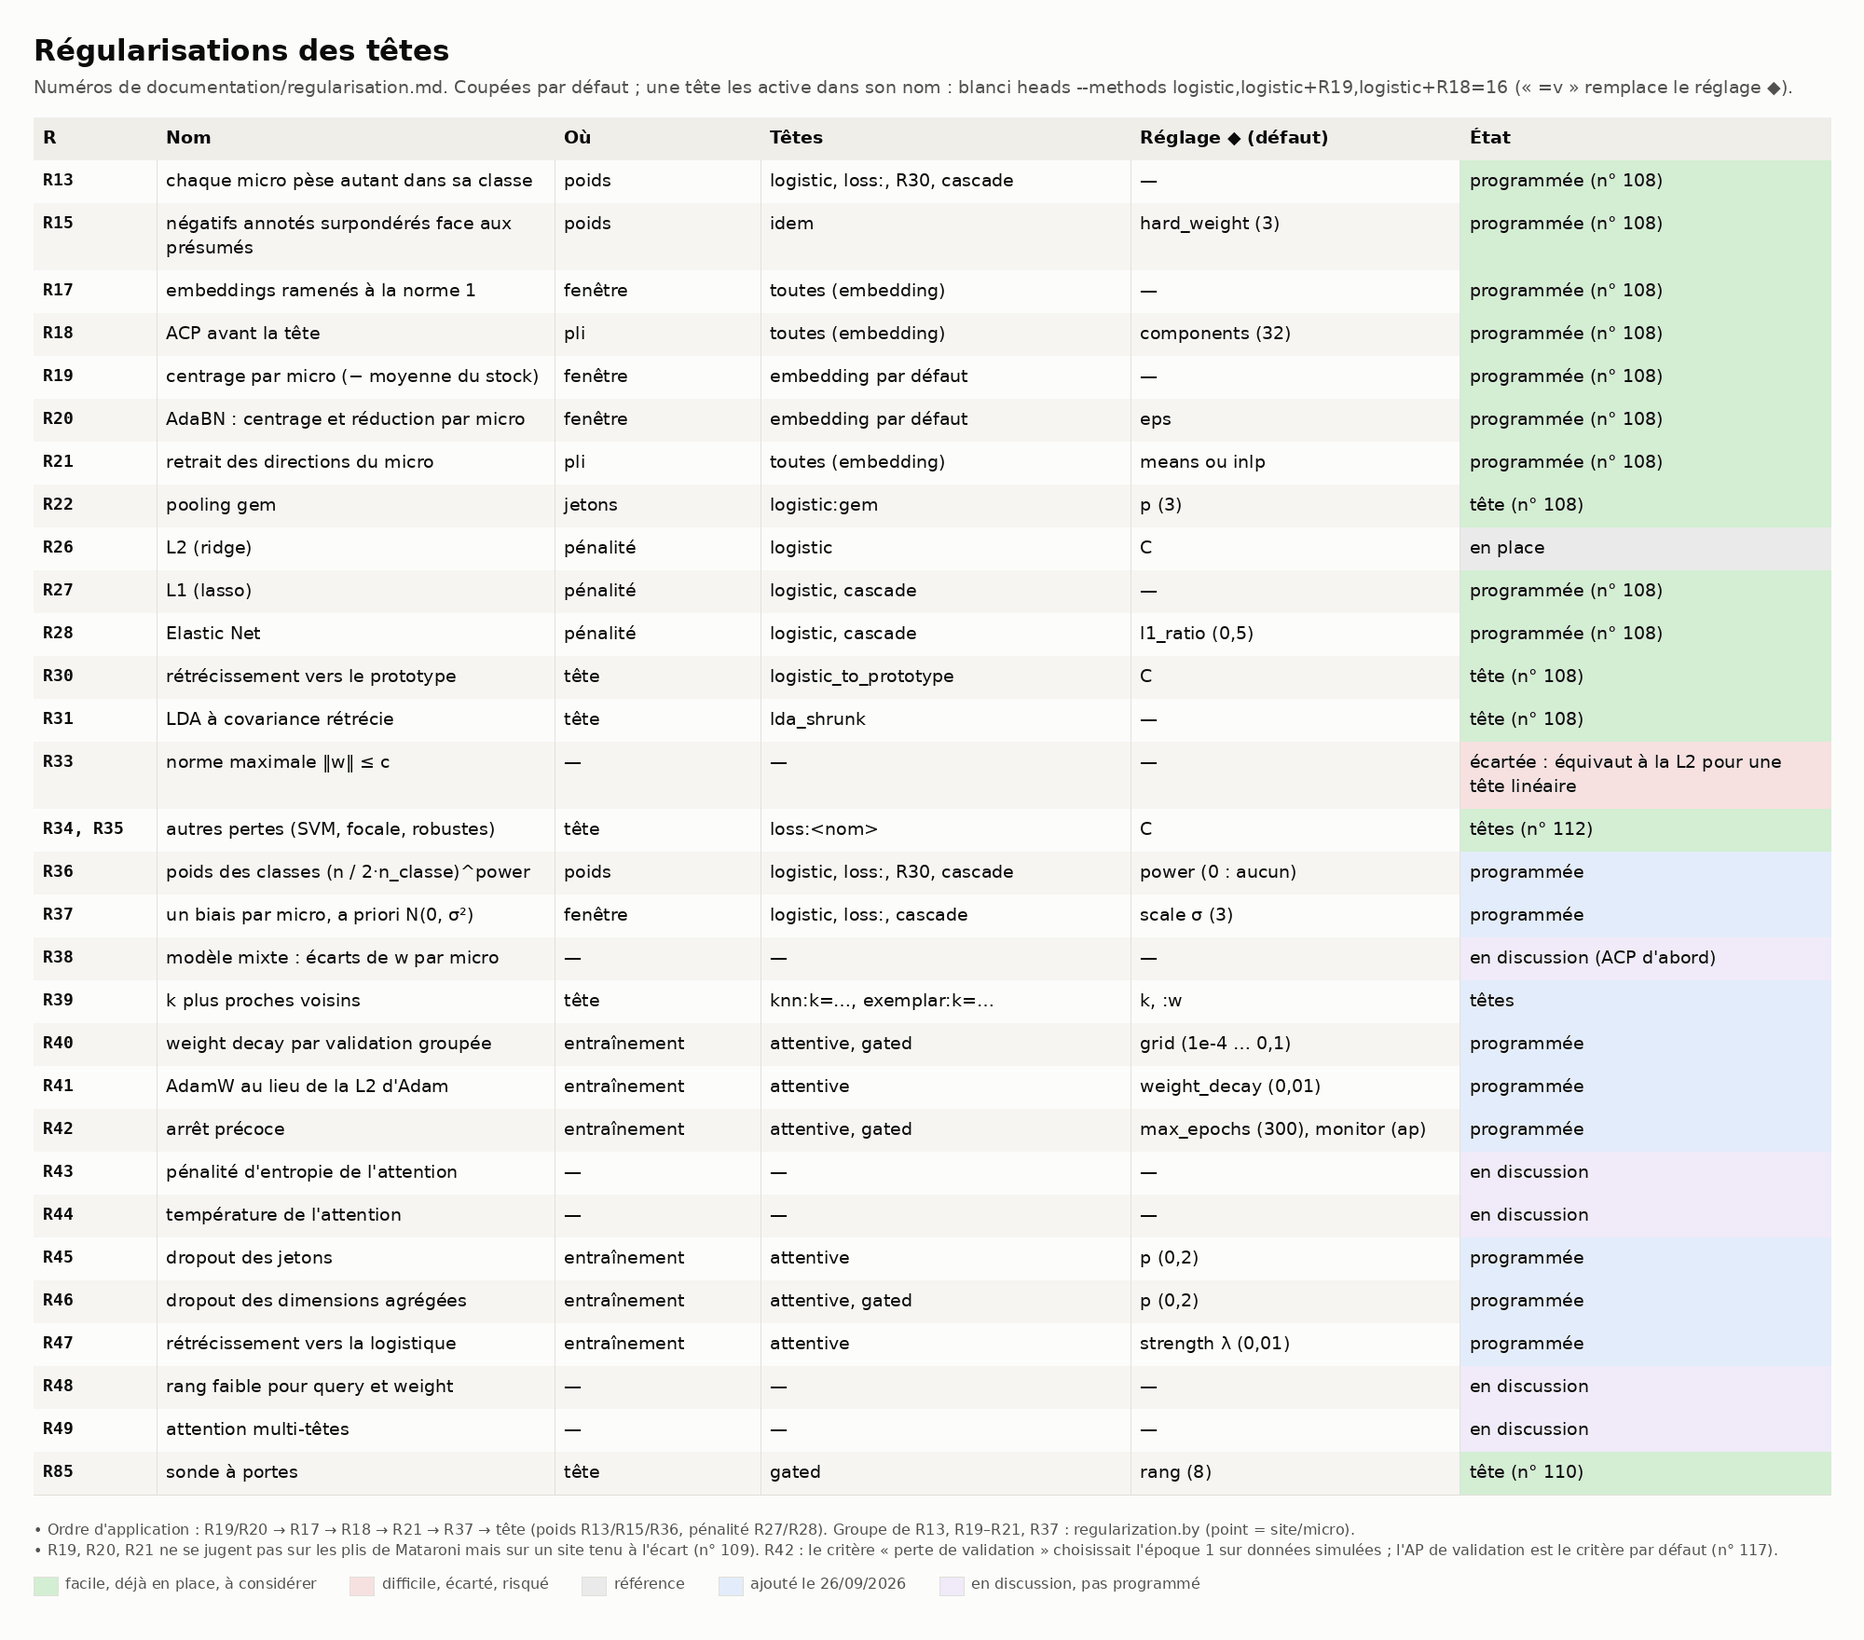
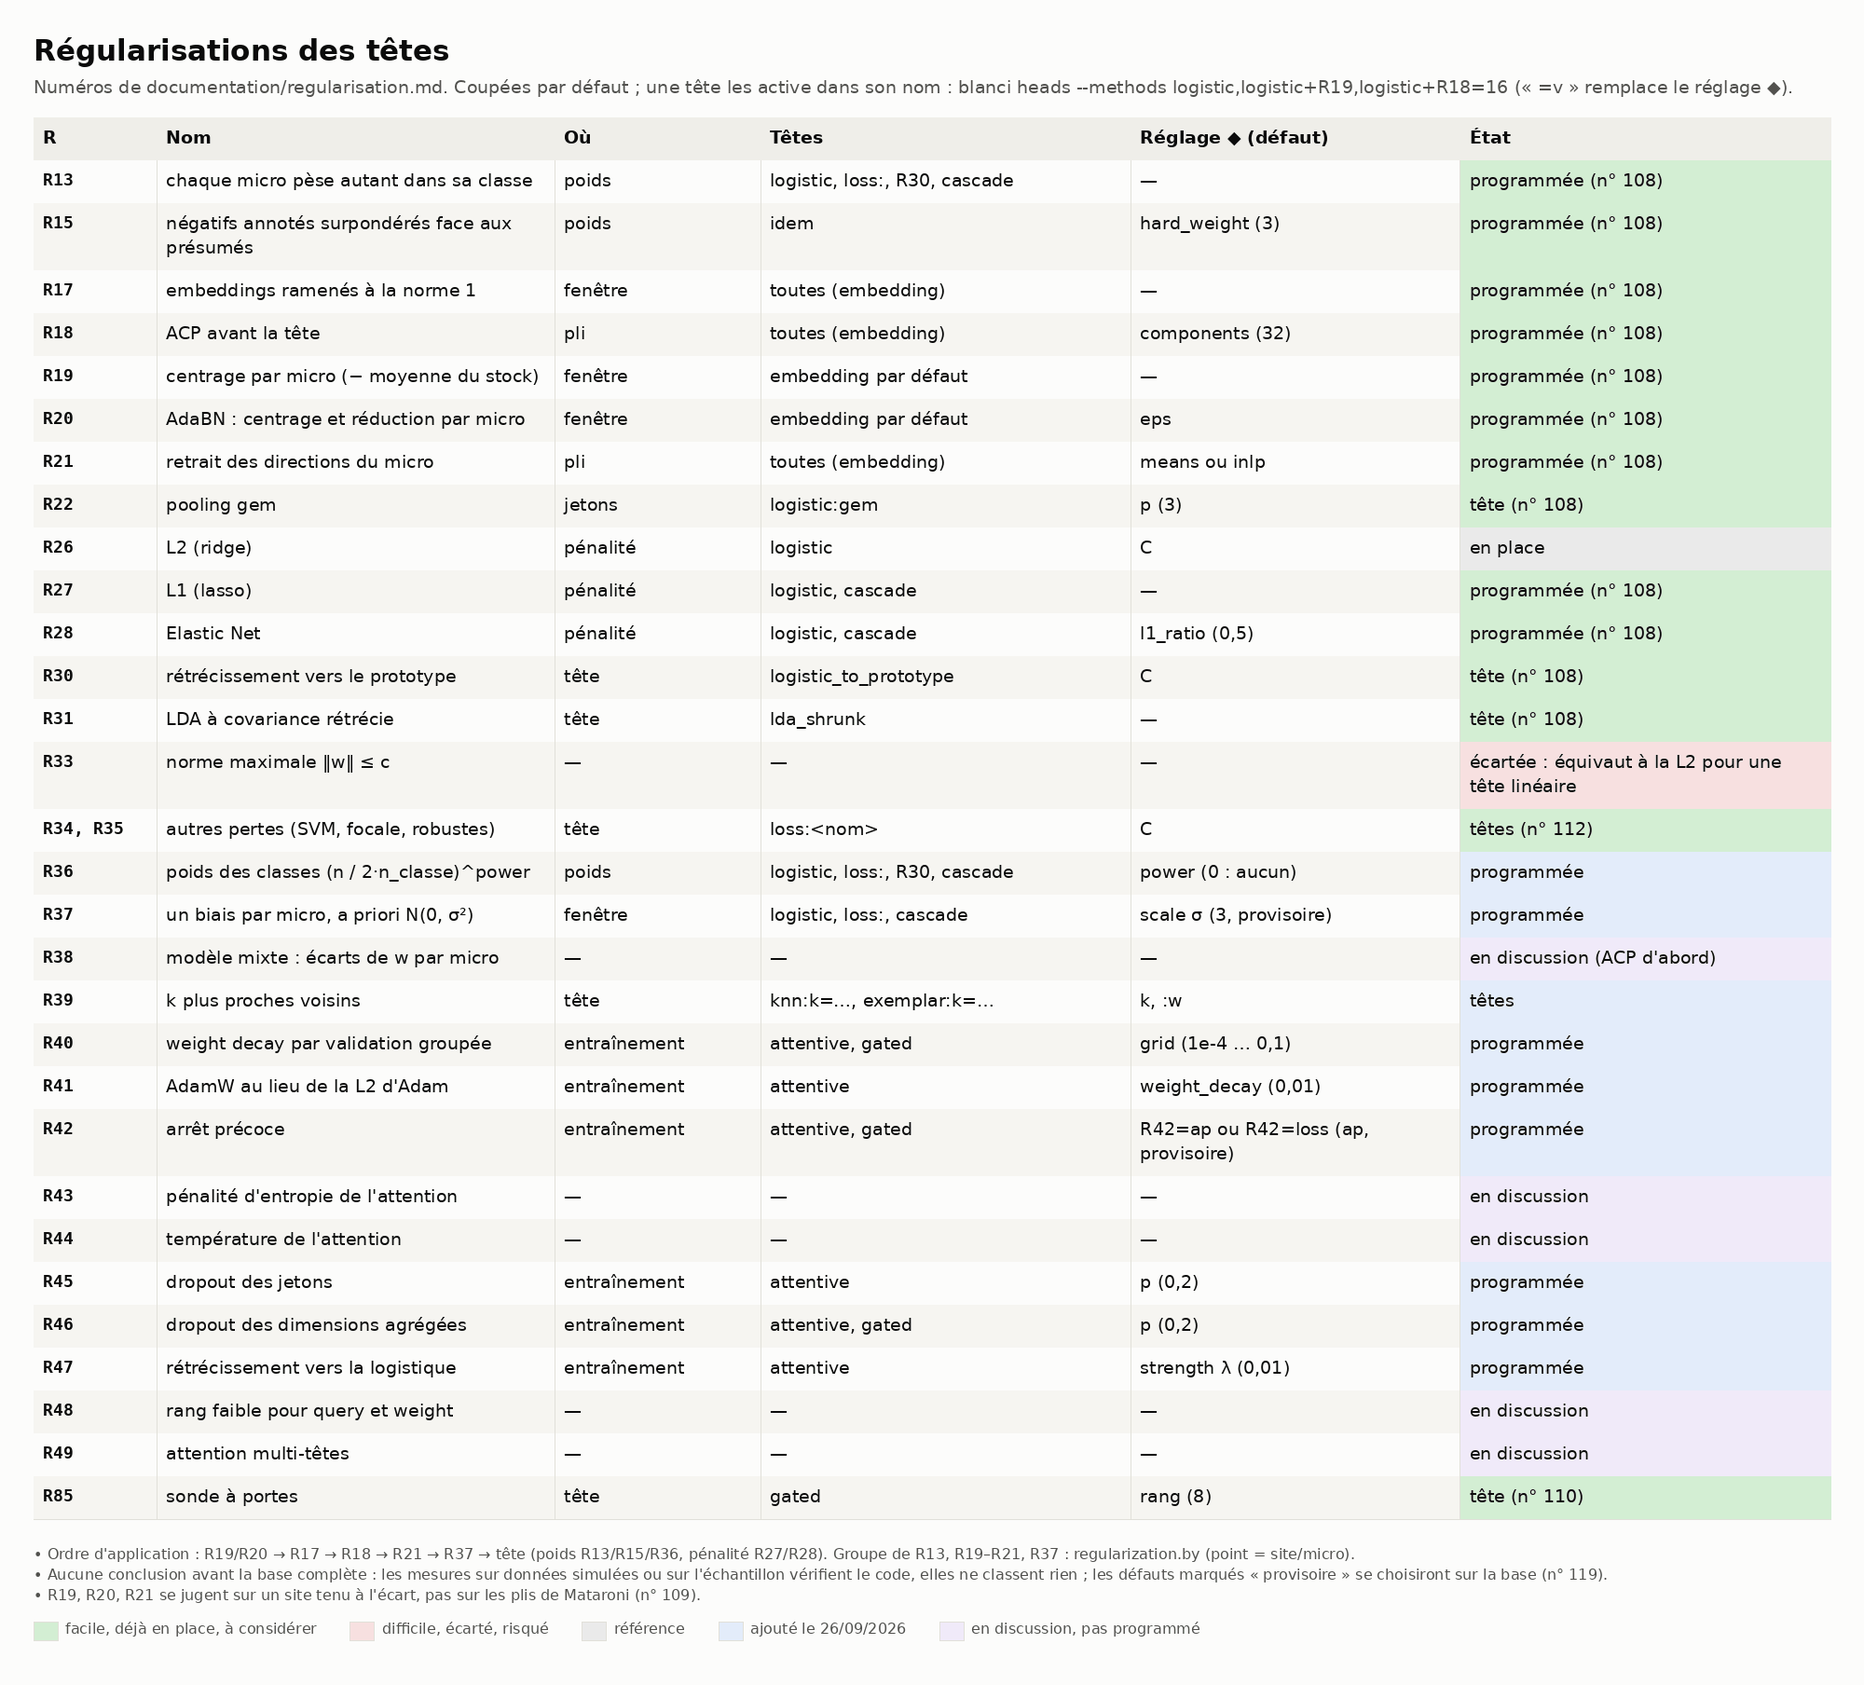
Régularisations : aucune conclusion avant la base complète (DECISIONS n° 119)
Défauts de R37 (σ) et R42 (critère) marqués provisoires ; R42=ap et
R42=loss se comparent dans un même run. Formulations des docs, de la
config et du tableau des régularisations ramenées à ce que montrent les
données simulées : le code fonctionne, rien n'est classé.

Claude-Session: https://claude.ai/code/session_01LpMKH97A5PGbWLrhmp1euv

diff --git a/blanci/regularization.py b/blanci/regularization.py
@@ -29,7 +29,7 @@ Têtes entraînées avec torch (DECISIONS n° 117, `blanci/attentive.py`) :
 |---|---|---|
 | R40 | attentive, gated | weight decay choisi par validation groupée sur `grid` |
 | R41 | attentive | AdamW (weight decay découplé, `weight_decay`) |
-| R42 | attentive, gated | nombre d'époques par validation groupée (`monitor` : loss, ap) |
+| R42 | attentive, gated | nombre d'époques par validation groupée (`R42=ap`, `R42=loss`) |
 | R45 | attentive | dropout des jetons (`p`) |
 | R46 | attentive, gated | dropout des dimensions du vecteur agrégé (`p`) |
 | R47 | attentive | départ et rétrécissement vers la logistique (`strength` λ) |
@@ -48,10 +48,10 @@ R37 (DECISIONS n° 116) : une colonne par micro de l'entraînement, non standard
 est le biais du micro, d'a priori N(0, σ²) (σ = `scale`, en logit, indépendant de C : voir
 `head.standardize`). Un micro absent de l'entraînement (le micro du pli de test, un nouveau
 site) a toutes ses colonnes à 0 : biais commun. Le biais absorbe le niveau de chaque micro
-pendant l'apprentissage, w n'a plus à le coder. Mesuré sur données simulées : un σ petit
-(biais « très pénalisés ») ne sert à rien, w garde le raccourci ; il faut σ de l'ordre des
-écarts réels entre micros (≥ 3). Écartée au tri du 26/09 : R33 (norme maximale, équivalente
-à la L2 pour une tête linéaire).
+pendant l'apprentissage, w n'a plus à le coder. Sur données simulées, un σ petit (biais « très
+pénalisés ») laissait le raccourci dans w : le mécanisme dépend de σ, à choisir sur la base
+complète (`logistic+R37=0.3`, `=1`, `=3`, `=10`) ; σ = 3 est un défaut provisoire (n° 119).
+Écartée au tri du 26/09 : R33 (norme maximale, équivalente à la L2 pour une tête linéaire).
 """
 
 from __future__ import annotations
@@ -91,7 +91,7 @@ MAIN_PARAMETER = {
     36: "power",
     37: "scale",
     41: "weight_decay",
-    42: "max_epochs",
+    42: "monitor",
     45: "p",
     46: "p",
     47: "strength",
@@ -101,31 +101,48 @@ PENALIZED_HEADS = ("logistic", "cascade")
 GROUP_BIAS_HEADS = ("logistic", "cascade", "loss")
 # Régularisations des têtes entraînées avec torch, et celles que chacune accepte.
 TORCH_REGULARIZATIONS = {"attentive": (40, 41, 42, 45, 46, 47), "gated": (40, 42, 46)}
-_SUFFIX = re.compile(r"^R(\d+)(?:=([0-9.eE+-]+))?$")
+# Réglages principaux qui prennent un mot plutôt qu'un nombre : R42=ap, R42=loss.
+WORD_VALUES = {42: ("ap", "loss")}
+_SUFFIX = re.compile(r"^R(\d+)(?:=([0-9.eE+-]+|[a-z_]+))?$")
 
 
 # --- Noms des têtes -------------------------------------------------------------------------
 
 
-def parse_head(spec: str) -> tuple[str, dict[int, float | None]]:
-    """« logistic:max+R18=16+R13 » → ("logistic:max", {13: None, 18: 16.0})."""
+def parse_head(spec: str) -> tuple[str, dict[int, float | str | None]]:
+    """« logistic:max+R18=16+R13 » → ("logistic:max", {13: None, 18: 16.0}) ;
+    « attentive+R42=loss » → ("attentive", {42: "loss"}) (`WORD_VALUES`)."""
     base, *suffixes = spec.split("+")
-    regs: dict[int, float | None] = {}
+    regs: dict[int, float | str | None] = {}
     for suffix in suffixes:
         match = _SUFFIX.match(suffix.strip())
+        number = int(match.group(1)) if match else None
+        value = match.group(2) if match else None
+        if match and value is not None and number in WORD_VALUES:
+            if value not in WORD_VALUES[number]:
+                raise ValueError(
+                    f"R{number}={value} : valeurs possibles {', '.join(WORD_VALUES[number])}"
+                )
+            regs[number] = value
+            continue
+        try:
+            regs[number] = float(value) if value is not None else None
+        except (TypeError, ValueError):
+            match = None
         if not match:
             raise ValueError(f"régularisation illisible dans {spec!r} : {suffix!r} (ex. R18=16)")
-        regs[int(match.group(1))] = float(match.group(2)) if match.group(2) else None
     return base.strip(), regs
 
 
-def head_name(base: str, regs: dict[int, float | None]) -> str:
+def head_name(base: str, regs: dict[int, float | str | None]) -> str:
     """Nom canonique : régularisations triées par numéro."""
     parts = [base]
     for number in sorted(regs):
         value = regs[number]
         if value is None:
             parts.append(f"R{number}")
+        elif isinstance(value, str):
+            parts.append(f"R{number}={value}")
         else:
             parts.append(f"R{number}={int(value) if float(value).is_integer() else value}")
     return "+".join(parts)
@@ -135,7 +152,7 @@ def canonical(spec: str) -> str:
     return head_name(*parse_head(spec))
 
 
-def validate(base: str, regs: dict[int, float | None]) -> None:
+def validate(base: str, regs: dict[int, float | str | None]) -> None:
     """Refuse une régularisation inconnue ou sans objet pour cette tête."""
     unknown = sorted(set(regs) - set(IMPLEMENTED))
     if unknown:
@@ -332,7 +349,7 @@ def sample_weights(
     y: np.ndarray,
     groups: np.ndarray,
     hard: np.ndarray | None,
-    regs: dict[int, float | None],
+    regs: dict[int, float | str | None],
     hard_weight: float = 3.0,
     class_power: float = 1.0,
 ) -> np.ndarray | None:
@@ -399,7 +416,7 @@ class Context:
 class Regularizer:
     """Les régularisations d'une tête, avec leurs réglages et le contexte des fenêtres."""
 
-    regs: dict[int, float | None]
+    regs: dict[int, float | str | None]
     params: dict[str, Any]
     context: Context
 
@@ -479,7 +496,7 @@ class Regularizer:
             options["weight_decay"] = float(self.param(41, "weight_decay", 1e-2))
         if 42 in self.regs:
             options["early_stopping"] = True
-            options["monitor"] = str(self.param(42, "monitor", "ap"))
+            options["monitor"] = str(self.param(42, "monitor", "ap"))  # provisoire (n° 119)
             options["epochs"] = int(self.param(42, "max_epochs", 300))
             options["n_splits"] = int(self.param(42, "n_splits", options.get("n_splits", 3)))
         if 45 in self.regs:

diff --git a/documentation/tableaux/generer.py b/documentation/tableaux/generer.py
@@ -834,7 +834,7 @@ REGULARISATIONS = Tableau(
                     "un biais par micro, a priori N(0, σ²)",
                     "fenêtre",
                     "logistic, loss:, cascade",
-                    "scale σ (3)",
+                    "scale σ (3, provisoire)",
                     C("programmée", "neuf"),
                 ],
                 [
@@ -874,7 +874,7 @@ REGULARISATIONS = Tableau(
                     "arrêt précoce",
                     "entraînement",
                     "attentive, gated",
-                    "max_epochs (300), monitor (ap)",
+                    "R42=ap ou R42=loss (ap, provisoire)",
                     C("programmée", "neuf"),
                 ],
                 [
@@ -926,9 +926,11 @@ REGULARISATIONS = Tableau(
     [
         "Ordre d'application : R19/R20 → R17 → R18 → R21 → R37 → tête (poids R13/R15/R36,"
         " pénalité R27/R28). Groupe de R13, R19–R21, R37 : regularization.by (point = site/micro).",
-        "R19, R20, R21 ne se jugent pas sur les plis de Mataroni mais sur un site tenu à l'écart"
-        " (n° 109). R42 : le critère « perte de validation » choisissait l'époque 1 sur données"
-        " simulées ; l'AP de validation est le critère par défaut (n° 117).",
+        "Aucune conclusion avant la base complète : les mesures sur données simulées ou sur"
+        " l'échantillon vérifient le code, elles ne classent rien ; les défauts marqués"
+        " « provisoire » se choisiront sur la base (n° 119).",
+        "R19, R20, R21 se jugent sur un site tenu à l'écart, pas sur les plis de Mataroni"
+        " (n° 109).",
     ],
 )
 

diff --git a/blanci/attentive.py b/blanci/attentive.py
@@ -147,7 +147,8 @@ def optimise(
 def validation_criterion(torch, loss_fn, scores_of, y_val: np.ndarray, monitor: str = "loss"):
     """Critère de R42, à minimiser : la perte d'entraînement sur les fenêtres de validation
     ("loss"), ou 1 − AP ("ap"). La perte monte dès que la tête devient trop sûre d'elle, même
-    quand son classement s'améliore encore (mesuré, DECISIONS n° 117)."""
+    quand son classement s'améliore encore (vu sur données simulées, DECISIONS n° 117 ; le
+    choix entre les deux se fera sur la base complète, n° 119)."""
     from blanci.evaluate import average_precision
 
     y_np = np.asarray(y_val).astype(int)
@@ -307,8 +308,8 @@ def fit_with_options(
     (`monitor` : "loss" ou "ap") est relevée à chaque époque ; l'époque retenue minimise la
     courbe moyenne des plis, et la tête est réentraînée sur tout `X` pour ce nombre d'époques
     (en lot entier, une époque = un pas, quel que soit l'effectif). Un pli unique de 1 à 3
-    micros donnait une époque au hasard (mesuré, DECISIONS n° 117). Faute de deux micros, ou
-    d'une classe dans un pli, R40/R42 sont sautées.
+    micros donnait une époque au hasard (données simulées, DECISIONS n° 117). Faute de deux
+    micros, ou d'une classe dans un pli, R40/R42 sont sautées.
     """
     from blanci.evaluate import average_precision, grouped_folds
 

diff --git a/tests/test_regularization.py b/tests/test_regularization.py
@@ -86,6 +86,23 @@ def test_meaningless_regularizations_are_refused(spec, message):
         validate(*parse_head(spec))
 
 
+def test_R42_takes_its_criterion_as_a_word():
+    """Les deux critères de l'arrêt précoce se comparent dans un même run (n° 119)."""
+    assert parse_head("attentive+R42=loss") == ("attentive", {42: "loss"})
+    assert canonical("attentive+R42=ap+R41") == "attentive+R41+R42=ap"
+    context = Context(np.array(["a"]))
+    for word in ("ap", "loss"):
+        options = regularizer_for(f"attentive+R42={word}", {}, context)[2].torch_options()
+        assert options["monitor"] == word and options["early_stopping"]
+    cfg = {"regularization": {"R42": {"monitor": "loss"}}}
+    default = regularizer_for("attentive+R42", cfg, context)[2]
+    assert default.torch_options()["monitor"] == "loss"
+    with pytest.raises(ValueError, match="valeurs possibles"):
+        parse_head("attentive+R42=auc")
+    with pytest.raises(ValueError, match="illisible"):
+        parse_head("logistic+R37=abc")
+
+
 def test_a_plain_head_has_no_regularizer():
     assert regularizer_for("logistic", {}, None) == ("logistic", "logistic", None)
 

diff --git a/documentation/regularisation.md b/documentation/regularisation.md
@@ -121,21 +121,23 @@ On en discute dans l'ordre que tu veux.
 
 # Tri de Léonard du 26/09 (R33–R49)
 
-État de chaque régularisation en image : `documentation/tableaux/regularisations.png`.
+État de chaque régularisation en image : `documentation/tableaux/regularisations.png`. Aucune
+conclusion sur les régularisations tant que la base complète n'est pas accessible : les mesures
+sur données simulées ou sur l'échantillon vérifient le code, elles ne classent rien (n° 119).
 
 - R33 (norme maximale) : écartée, équivalente à la L2 pour une tête linéaire.
 - R34, R35 (SVM, pertes robustes) : benchmark des pertes, `--methods losses` (DECISIONS n° 112,
   tableau `pertes.png`).
 - R36 (poids des classes) : l'équilibrage reste le défaut ; `logistic+R36` mesure ce qu'il
   apporte (`R36=0` : aucun, `R36=0.5` : entre les deux). DECISIONS n° 116.
-- R37 : un biais par micro (point = site/micro) plutôt que par site. Mesure sur données
-  simulées : il ne sert que si le biais est *peu* pénalisé (σ ≥ 3), pas « très pénalisé ».
+- R37 : un biais par micro (point = site/micro) plutôt que par site. σ (écart-type a priori des
+  biais) reste à choisir sur la base complète : `logistic+R37=0.3`, `=1`, `=3`, `=10`.
   DECISIONS n° 116.
 - R38 (modèle mixte) : en attente, ~100 micros × 1 536 dimensions ; après une ACP.
 - R39 (k voisins) : `knn:k=3`, `knn:k=5` par défaut, `--methods neighbors` pour toutes les
   variantes (DECISIONS n° 115, tableau `voisins.png`).
 - R40, R41, R42, R45, R46, R47 : programmées pour l'attentive (et R40, R42, R46 pour la sonde à
-  portes), `attentive+R41+R42`… R42 choisit le nombre d'époques sur l'AP de validation
-  moyenne des plis groupés : la perte de validation remontait dès la première époque sur
-  données simulées. DECISIONS n° 117.
+  portes), `attentive+R41+R42`… R42 choisit le nombre d'époques sur la courbe de validation
+  moyenne des plis groupés ; critère AP ou perte, à comparer : `attentive+R42=ap`,
+  `attentive+R42=loss`. DECISIONS n° 117.
 - R43, R44, R48, R49 : expliquées, en discussion, non programmées.

diff --git a/DECISIONS.md b/DECISIONS.md
@@ -1102,8 +1102,8 @@ décision, datée ; une décision remise en cause reçoit une nouvelle entrée, 
        qui prédit la présence, nouveau site où il ne tient plus), AP sur le nouveau site,
        3 tirages : sans R37 0,25–0,37 ; σ = 0,3 : 0,24–0,42 ; σ = 1 : 0,42–0,57 ; σ = 3 :
        0,56–0,68 ; σ = 10 : 0,61–0,71 ; R21 : 0,50–0,62. Contrairement à la liste du 25/09
-       (« biais très pénalisé »), un biais fortement rétréci ne sert à rien : w garde le
-       raccourci. Défaut σ = 3.
+       (« biais très pénalisé »), un biais fortement rétréci n'y change rien : w garde le
+       raccourci. Défaut σ = 3, provisoire (n° 119).
      - R38 (écarts de w par micro) : non programmée. ~100 micros × 1 536 dimensions ; à
        reprendre après une ACP (R18), avec des effets croisés micro + site si l'on veut
        séparer le matériel (qui suit le micro) du lieu.
@@ -1138,3 +1138,13 @@ décision, datée ; une décision remise en cause reçoit une nouvelle entrée, 
      est abandonné (Léonard). Tests lancés depuis un conteneur en root :
      `test_freeze_writes_a_read_only_version_and_never_overwrites` y échoue (root écrit dans
      un fichier en lecture seule), sans rapport avec le code.
+
+119. **Aucune conclusion sur les régularisations avant la base complète** (Léonard, 26/09). La
+     base complète n'est pas accessible aujourd'hui. Les mesures des n° 109, 113, 116 et 117
+     (données simulées, échantillon de 66 clips) vérifient que le code fait ce qu'il doit ;
+     elles ne classent aucune régularisation. Les réglages par défaut qui en découlent sont
+     provisoires et se choisiront sur la base : σ de R37 (comparer `logistic+R37=0.3`, `=1`,
+     `=3`, `=10`) et le critère de R42, désormais réglage principal de son suffixe
+     (`attentive+R42=ap` et `attentive+R42=loss` dans un même run, scores hors-pli
+     distincts). Même prudence pour les avis théoriques donnés en discussion (R44 redondante
+     avec le weight decay sur q, par exemple) : à vérifier, pas à appliquer.
